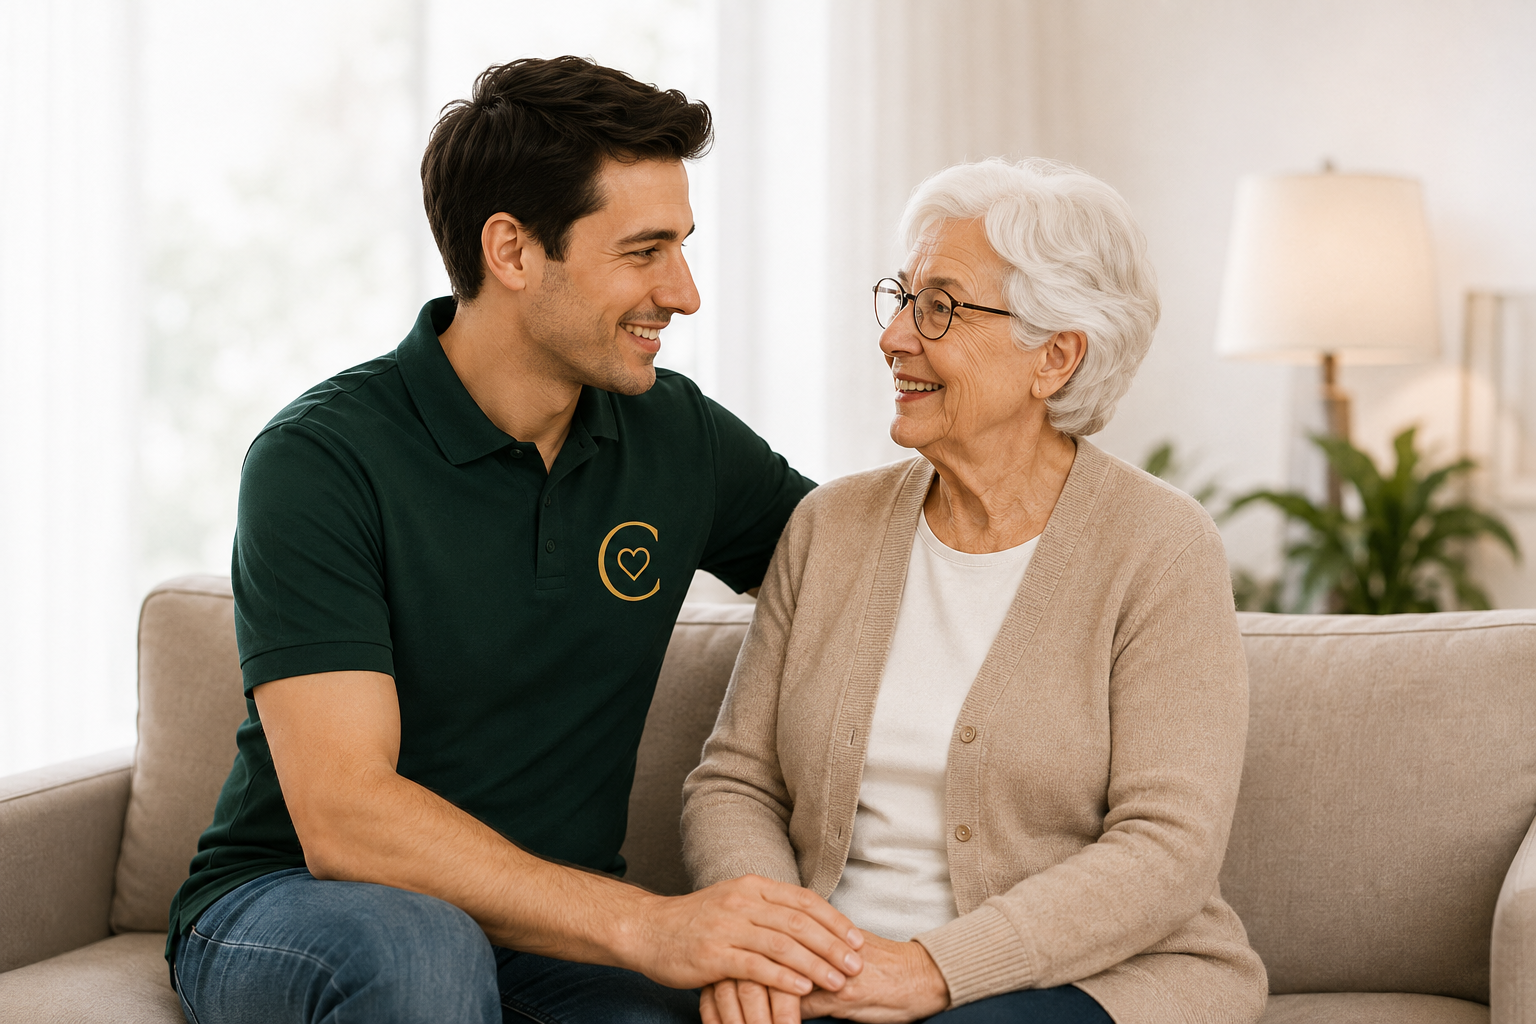
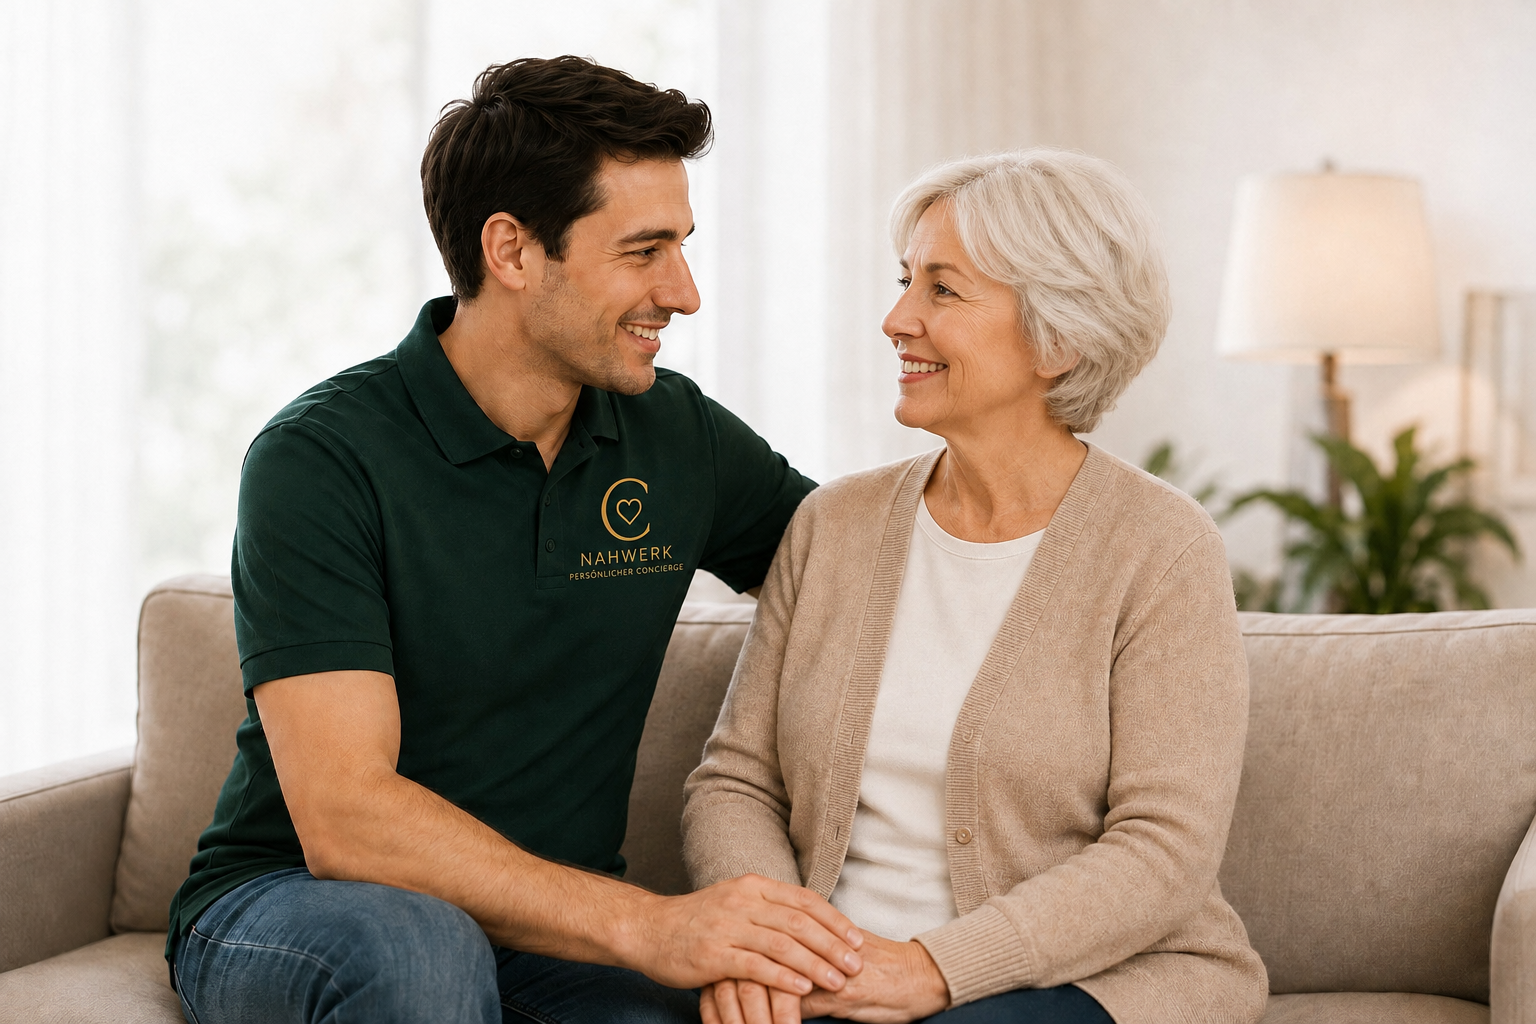
Publish corrected personal and senior concierge photos

diff --git a/assets/home-reference.css b/assets/home-reference.css
@@ -398,7 +398,7 @@ body.home-reference {
 }
 .senior-photo {
   height: 365px;
-  background: center/cover no-repeat url("hero-senioren.jpg?v=2");
+  background: center/cover no-repeat url("hero-senioren.jpg?v=5");
   filter: saturate(0.9) contrast(0.98);
   -webkit-mask-image: linear-gradient(
     90deg,
@@ -482,7 +482,7 @@ body.home-reference {
   height: 122px;
   border-radius: 50%;
   border: 3px solid #d9a43a;
-  background: #fff center/cover no-repeat url("hero-senioren.jpg?v=2");
+  background: #fff center/cover no-repeat url("hero-senioren.jpg?v=5");
   box-shadow: 0 8px 18px rgba(111, 78, 18, 0.12);
 }
 .split-tag {
